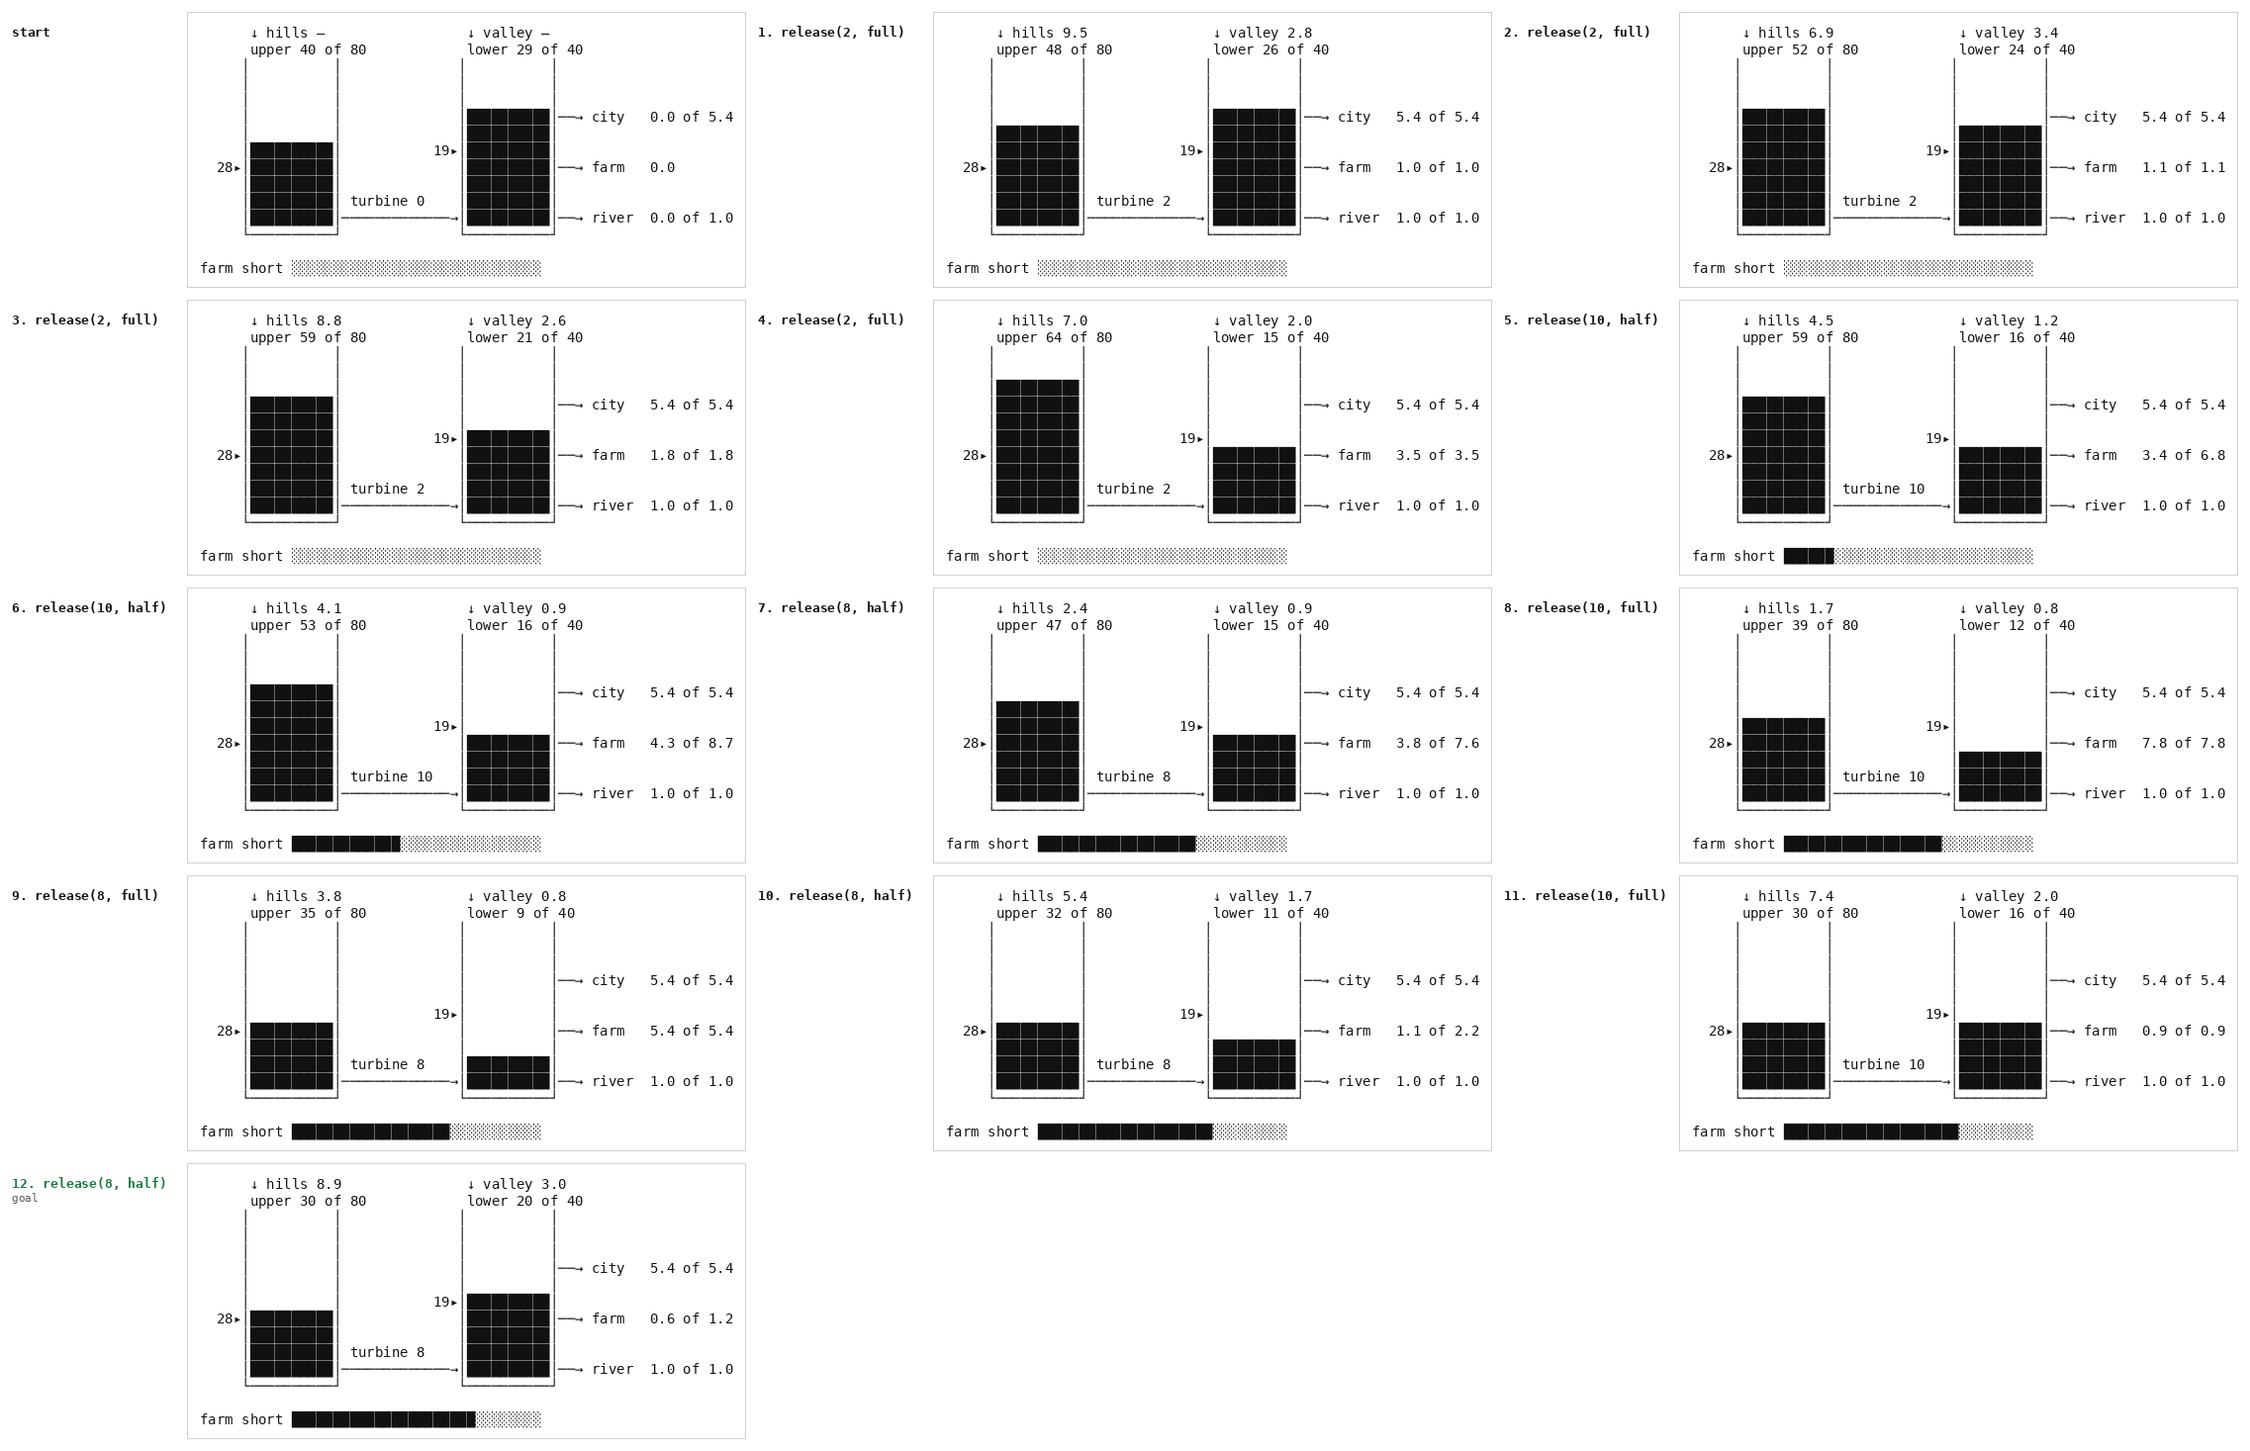
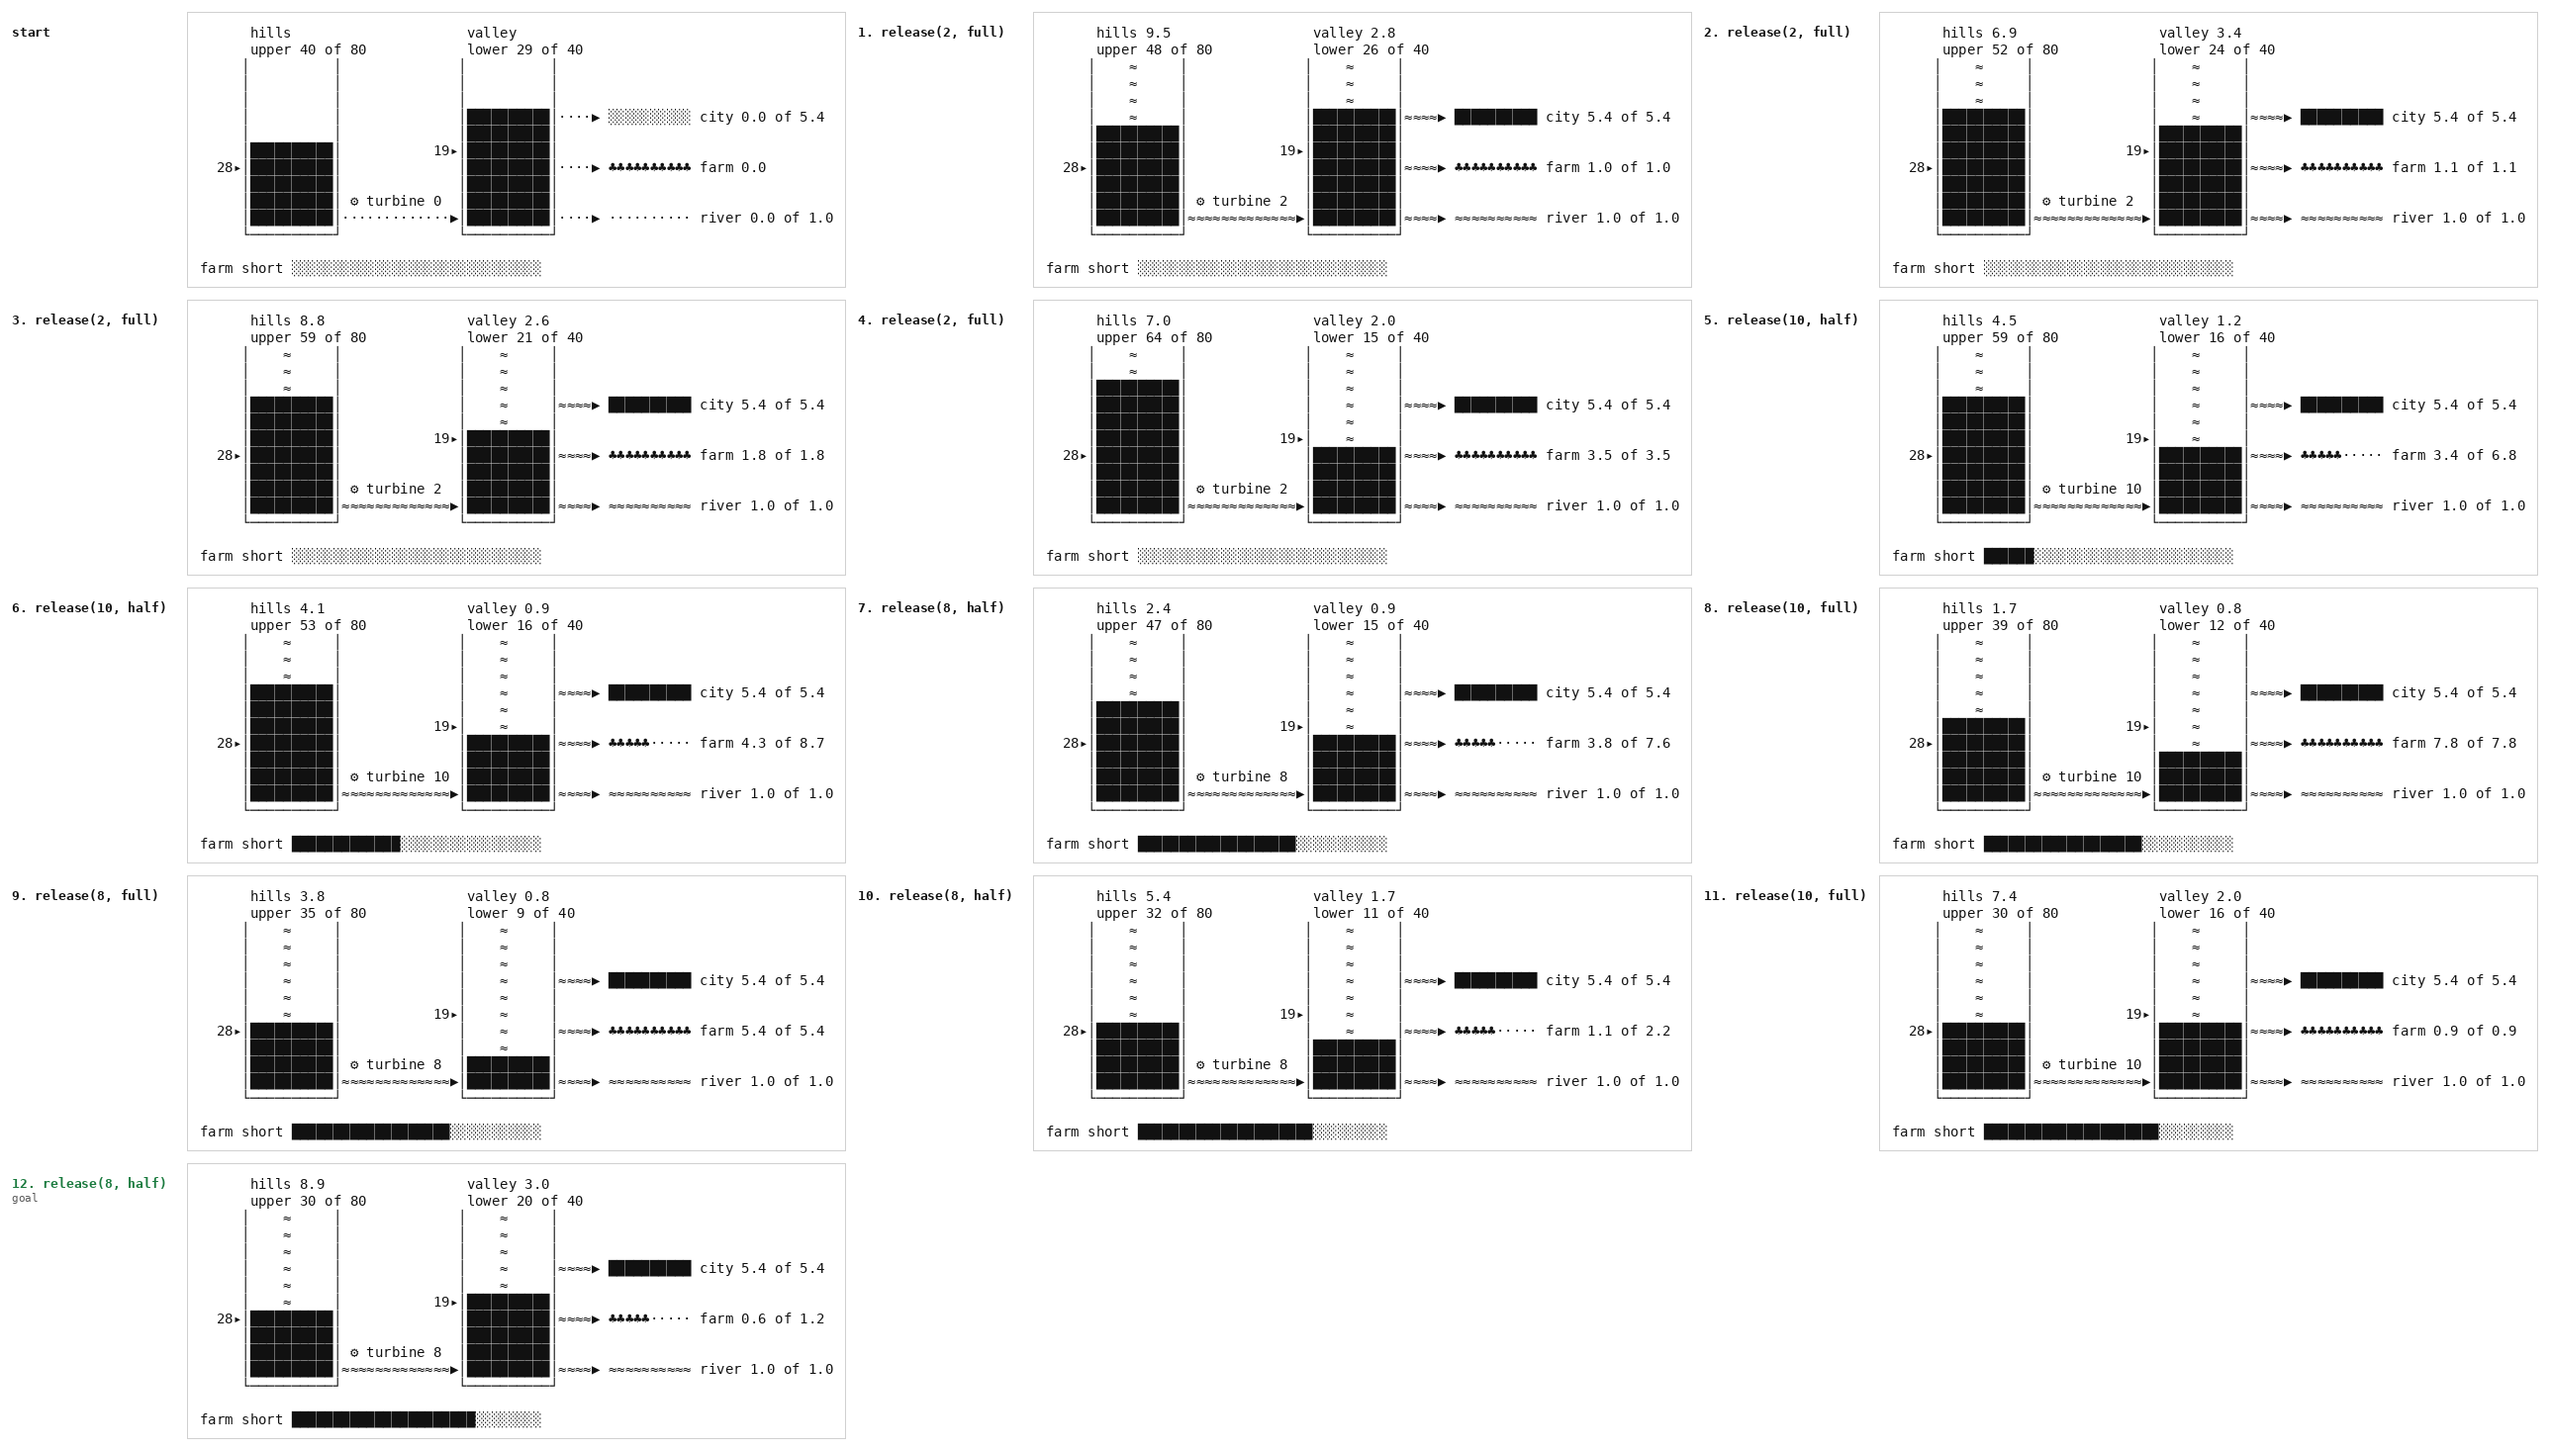
Draw the reservoirs' valley: inflows, a turbine, and what each outlet served
The lines in and out of the tanks give way to water: the inflow pours
into each tank, the turbine's channel runs or stands dry, and the city's
buildings, the farm's crops and the river downstream show the share of
their demand they got.

Claude-Session: https://claude.ai/code/session_01CbUM6vVu3Q3wBSzyXUJpxb

diff --git a/planiverse/environments/operational/reservoir/environment.py b/planiverse/environments/operational/reservoir/environment.py
@@ -136,9 +136,12 @@ class ReservoirState:
         return self.depth < other.depth
 
     def __str__(self):
-        """The two reservoirs as tanks filled against their capacity, each reserve marked
-        beside its wall, the month's inflows coming in, the release let down from the upper
-        to the lower, and what the city, the farm and the river got off the lower one, then
+        """The valley: the two reservoirs as tanks filled against their capacity, each reserve
+        marked beside its wall, the month's inflow pouring into each; the turbine ⚙ at the
+        foot of the upper one with its channel down to the lower, running ≈ while water is let
+        down and dry · when none is; and off the lower one the city as buildings lit █ in the
+        share of its demand it got and dark ░ for the rest, the farm as a field of crops ♣
+        watered and · dry, and the river running on ≈ as far as its share was met. Under it,
         the farm's shortfall as a gauge against the allowance."""
         site = self.site
         capacity = site.capacity if site else (max(self.upper, 1.0), max(self.lower, 1.0))
@@ -146,33 +149,50 @@ class ReservoirState:
         city, farm, river, turbine = self.delivered
         last = self.month - 1
         rows, inside, top = 10, 10, 2
-        canvas = Canvas(64, top + rows + 1)
+        canvas = Canvas(90, top + rows + 1)
         lefts = (5, 31)
         inflows = (site.inflow_upper, site.inflow_lower) if site else None
         for k, (name, volume) in enumerate((("upper", self.upper), ("lower", self.lower))):
             left = lefts[k]
-            inflow = f"{inflows[k][last]:.1f}" if inflows and last >= 0 else "–"
-            canvas.write(left + 1, 0, f"↓ {('hills', 'valley')[k]} {inflow}")
+            inflow = inflows[k][last] if inflows and last >= 0 else 0.0
+            canvas.write(left + 1, 0, f"{('hills', 'valley')[k]} {inflow:.1f}" if last >= 0
+                         else ("hills", "valley")[k])
             canvas.write(left + 1, 1, f"{name} {volume:.0f} of {capacity[k]:.0f}")
-            for row, line in enumerate(tank(volume / capacity[k] if capacity[k] else 0, rows, inside)):
+            share = volume / capacity[k] if capacity[k] else 0
+            for row, line in enumerate(tank(share, rows, inside)):
                 canvas.write(left, top + row, line)
+            surface = top + rows - int(round(max(0.0, min(1.0, share)) * rows))
+            if inflow > 0:                                   # the inflow pouring in
+                for y in range(top, surface):
+                    canvas.write(left + inside // 2, y, "≈")
             if reserves[k]:
                 level = int(round(max(0.0, min(1.0, reserves[k] / capacity[k])) * rows))
                 canvas.write(left - 4, top + rows - max(level, 1), f"{reserves[k]:>3.0f}▸"[-4:])
-        # the turbine, from the foot of the upper reservoir into the lower
+
+        def channel(x0, x1, y, amount):
+            canvas.write(x0, y, ("≈" if amount > 0 else "·") * (x1 - x0) + "▶")
+
+        def served(got, want, width, on, off):
+            share = 1.0 if not want else max(0.0, min(1.0, got / want))
+            done = int(round(share * width))
+            return on * done + off * (width - done)
+
+        # the turbine at the foot of the upper reservoir, its channel down to the lower
         y = top + rows - 1
-        canvas.write(lefts[0] + inside + 3, y - 1, f"turbine {turbine:.0f}")
-        canvas.hline(lefts[0] + inside + 2, lefts[1] - 2, y, "─")
-        canvas.put(lefts[1] - 1, y, "→")
-        # the lower reservoir's three outlets
+        canvas.write(lefts[0] + inside + 3, y - 1, f"⚙ turbine {turbine:.0f}")
+        channel(lefts[0] + inside + 2, lefts[1] - 1, y, turbine)
+        # the lower reservoir's three outlets, and what each served
         wants = (site.city if site else None,
                  site.farm[last] if site and last >= 0 else None,
                  site.river if site else None)
         x = lefts[1] + inside + 2
-        for k, (name, got, want) in enumerate((("city", city, wants[0]), ("farm", farm, wants[1]),
-                                              ("river", river, wants[2]))):
-            canvas.write(x, top + 3 + 3 * k, f"──→ {name:<6}{got:4.1f}"
-                         + (f" of {want:.1f}" if want is not None else ""))
+        scenes = (("city", city, wants[0], "█", "░"), ("farm", farm, wants[1], "♣", "·"),
+                  ("river", river, wants[2], "≈", "·"))
+        for k, (name, got, want, on, off) in enumerate(scenes):
+            row = top + 3 + 3 * k
+            channel(x, x + 4, row, got)
+            canvas.write(x + 6, row, served(got, want, 10, on, off))
+            canvas.write(x + 17, row, f"{name} {got:.1f}" + (f" of {want:.1f}" if want is not None else ""))
         lines = [str(canvas), ""]
         allowed = self.target or max(self.farm_short, 1.0)
         lines.append(f"farm short {bar(self.farm_short, max(allowed, self.farm_short), 30)}")

diff --git a/tests/test_operational_four.py b/tests/test_operational_four.py
@@ -291,4 +291,4 @@ def test_a_reservoir_state_draws_the_two_tanks_and_the_flows(reservoir):
     after = reservoir.__advance__(state, ReservoirAction(10, "half"))
     inst = reservoir.instance
     assert_a_picture(reservoir, state, after, ["upper 40 of 80", "lower 29 of 40", "city", "farm",
-                                               "river", "turbine", "28▸", "19▸", "farm short"])
+                                               "river", "turbine", "28▸", "19▸", "farm short", "⚙", "♣"]))

diff --git a/docs/environments/reservoir.md b/docs/environments/reservoir.md
@@ -134,19 +134,24 @@ where the target comes from.
 
 ![BFWS solving reservoir instance 0](../renders/reservoir.gif)
 
-Each frame is the state's picture. The two reservoirs are tanks filled to their volume against their
-capacity, with the month's inflow above each and the reserve each must hold at the end of the year
-marked beside its wall. The turbine lets the release down from the foot of the upper one into the
-lower, and the city, the farm and the river each take an outlet off the lower one, labelled with
-what they got this month against what they wanted. Under it is the farm's shortfall so far against
-the allowance.
+Each frame is the state's picture, the valley. The two reservoirs are tanks filled to their volume
+against their capacity, with the month's inflow pouring into each and the reserve each must hold at
+the end of the year marked beside its wall. The turbine sits at the foot of the upper one, its
+channel running down to the lower one while water is let down and dry when none is. Off the lower
+one the city, the farm and the river each take an outlet, and each shows what it got this month
+against what it wanted: the city's buildings lit in that share, the farm's crops watered in it, and
+the river running on as far. Under it is the farm's shortfall so far against the allowance.
 
 | Mark | Meaning |
 |---|---|
 | `│██│` | a reservoir, filled to its volume against its capacity |
+| `≈` pouring in | the month's inflow, from the hills or the valley |
 | `28▸` | the reserve the reservoir must hold at the end of the year, at its level |
-| `↓ hills 9.5` | the month's inflow from the hills or the valley |
-| `───→` | the turbine's release, or an outlet's delivery against its demand |
+| `⚙` | the turbine, at the foot of the upper reservoir |
+| `≈≈≈▶`, `···▶` | a channel running with water, or dry |
+| `█`, `░` | the city's buildings, lit or dark, in the share of its demand it got |
+| `♣`, `·` | the farm's crops, watered or dry |
+| `≈`, `·` downstream | the river, running as far as its share was met |
 | `███░░░` | the farm's shortfall so far against the allowance |
 
 The same plan is also a [sheet](../renders/reservoir.png), every state on one figure, each
